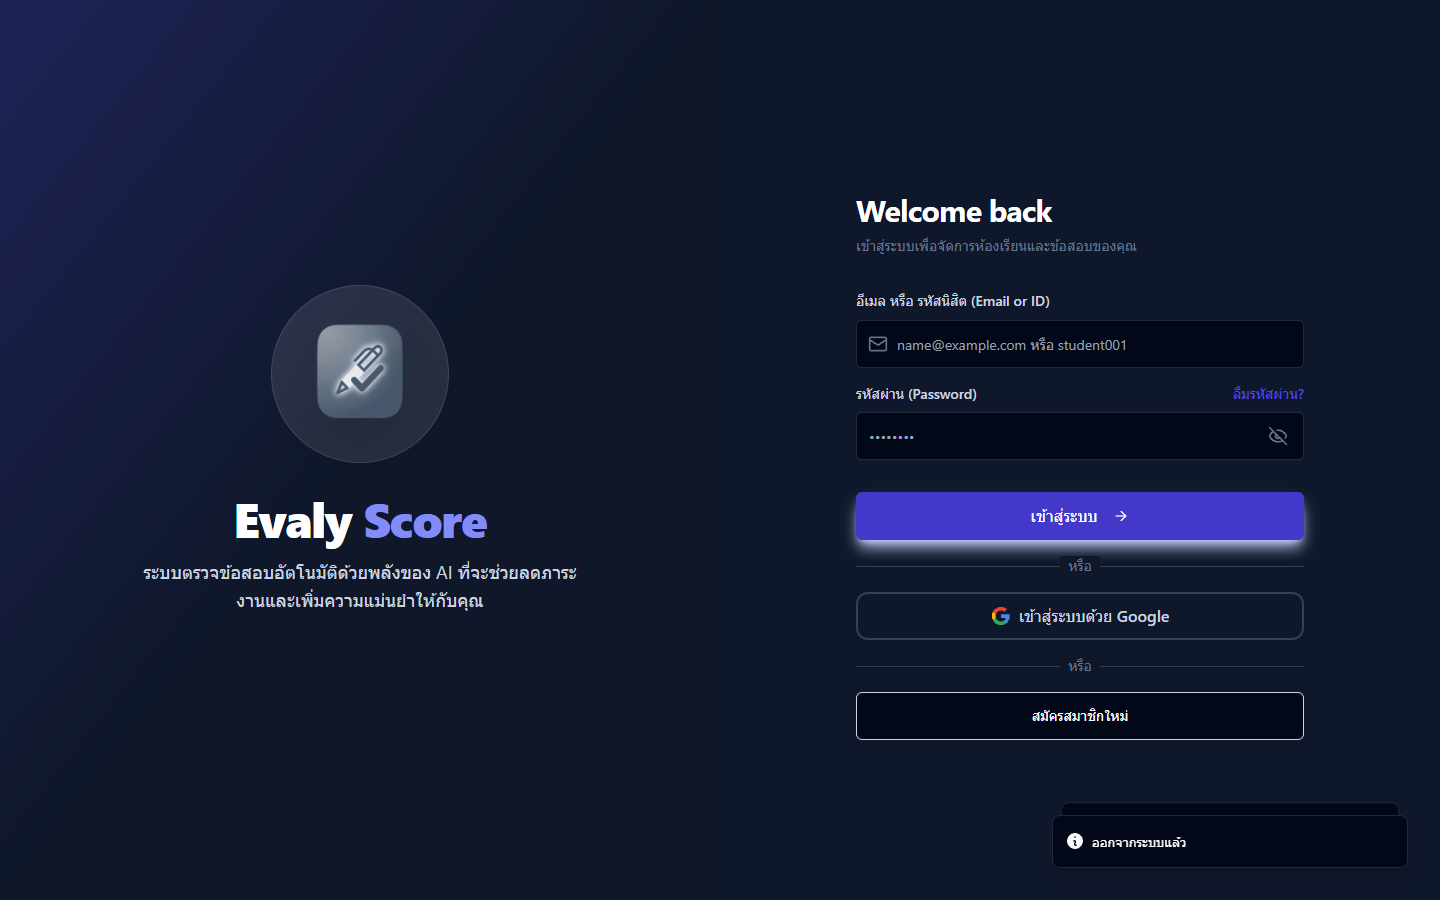
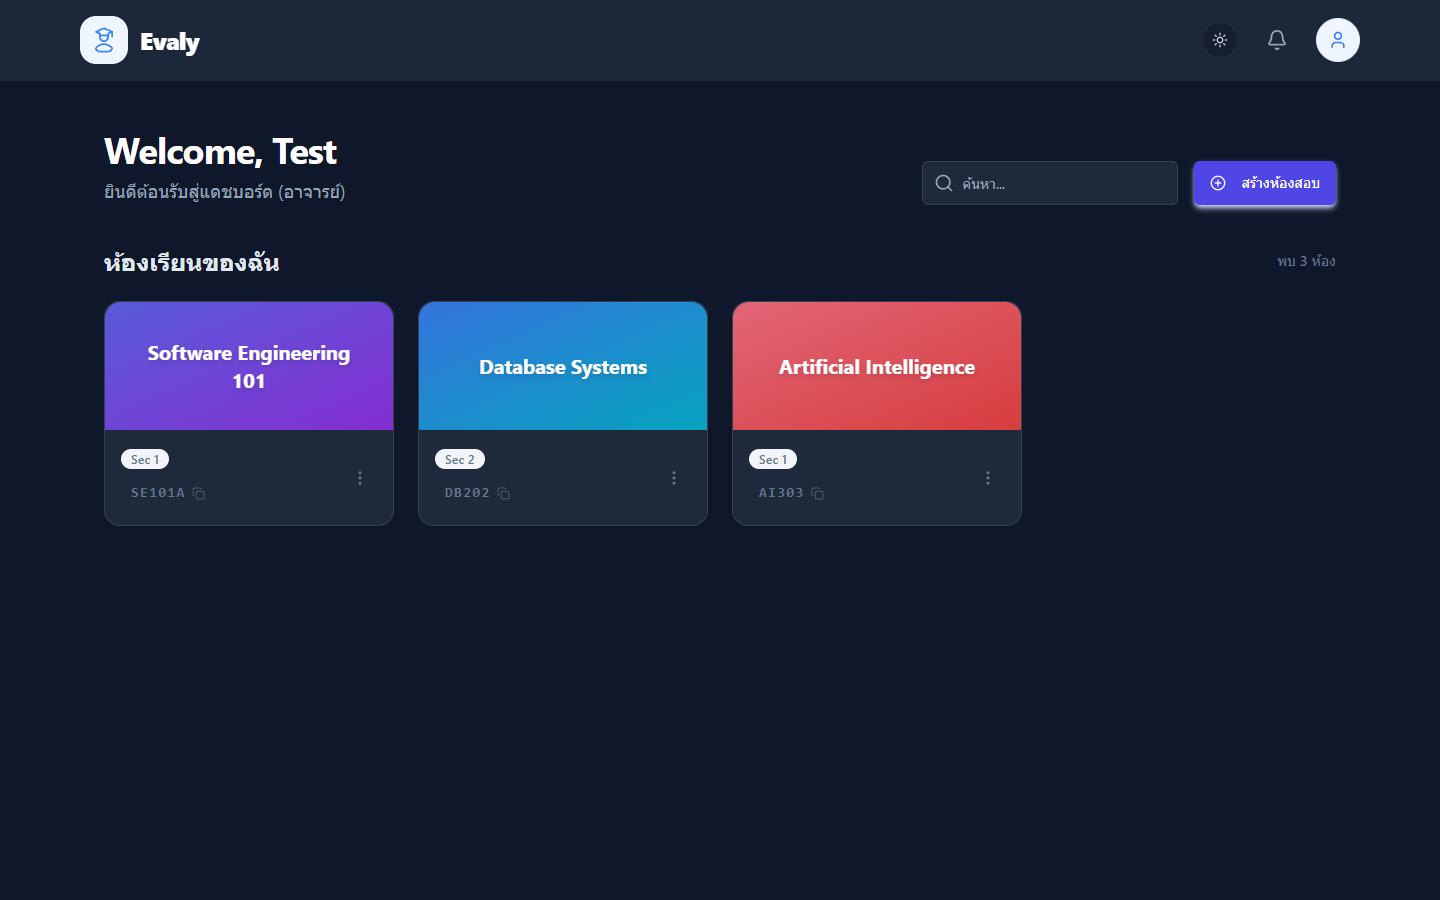
fix: profile redirect bug and add dashboard/profile screenshots

diff --git a/client/pages/Profile.tsx b/client/pages/Profile.tsx
@@ -11,7 +11,7 @@ import { auth } from "@/lib/firebase";
 import { GoogleAuthProvider, signInWithPopup } from "firebase/auth";
 
 export default function Profile() {
-  const { user, token, updateUser, logout } = useAuth();
+  const { user, token, updateUser, logout, isLoading: isAuthLoading } = useAuth();
   const navigate = useNavigate();
 
   const [name, setName] = useState("");
@@ -22,15 +22,17 @@ export default function Profile() {
   const [isLoading, setIsLoading] = useState(false);
 
   useEffect(() => {
-    if (!token || !user) {
+    if (!isAuthLoading && (!token || !user)) {
       navigate("/");
       return;
     }
-    setName(user.name);
-    if (user.avatarUrl) {
-      setAvatarPreview(`/uploads/avatars/${user.avatarUrl}`);
+    if (user) {
+      setName(user.name);
+      if (user.avatarUrl) {
+        setAvatarPreview(`/uploads/avatars/${user.avatarUrl}`);
+      }
     }
-  }, [user, token, navigate]);
+  }, [user, token, isAuthLoading, navigate]);
 
   const handleAvatarChange = (e: React.ChangeEvent<HTMLInputElement>) => {
     const file = e.target.files?.[0];
@@ -170,7 +172,7 @@ export default function Profile() {
     visible: { opacity: 1, transition: { staggerChildren: 0.1 } }
   };
 
-  if (!user) return null;
+  if (isAuthLoading || !user) return null;
 
   return (
     <div className="min-h-screen bg-slate-50 dark:bg-slate-900">